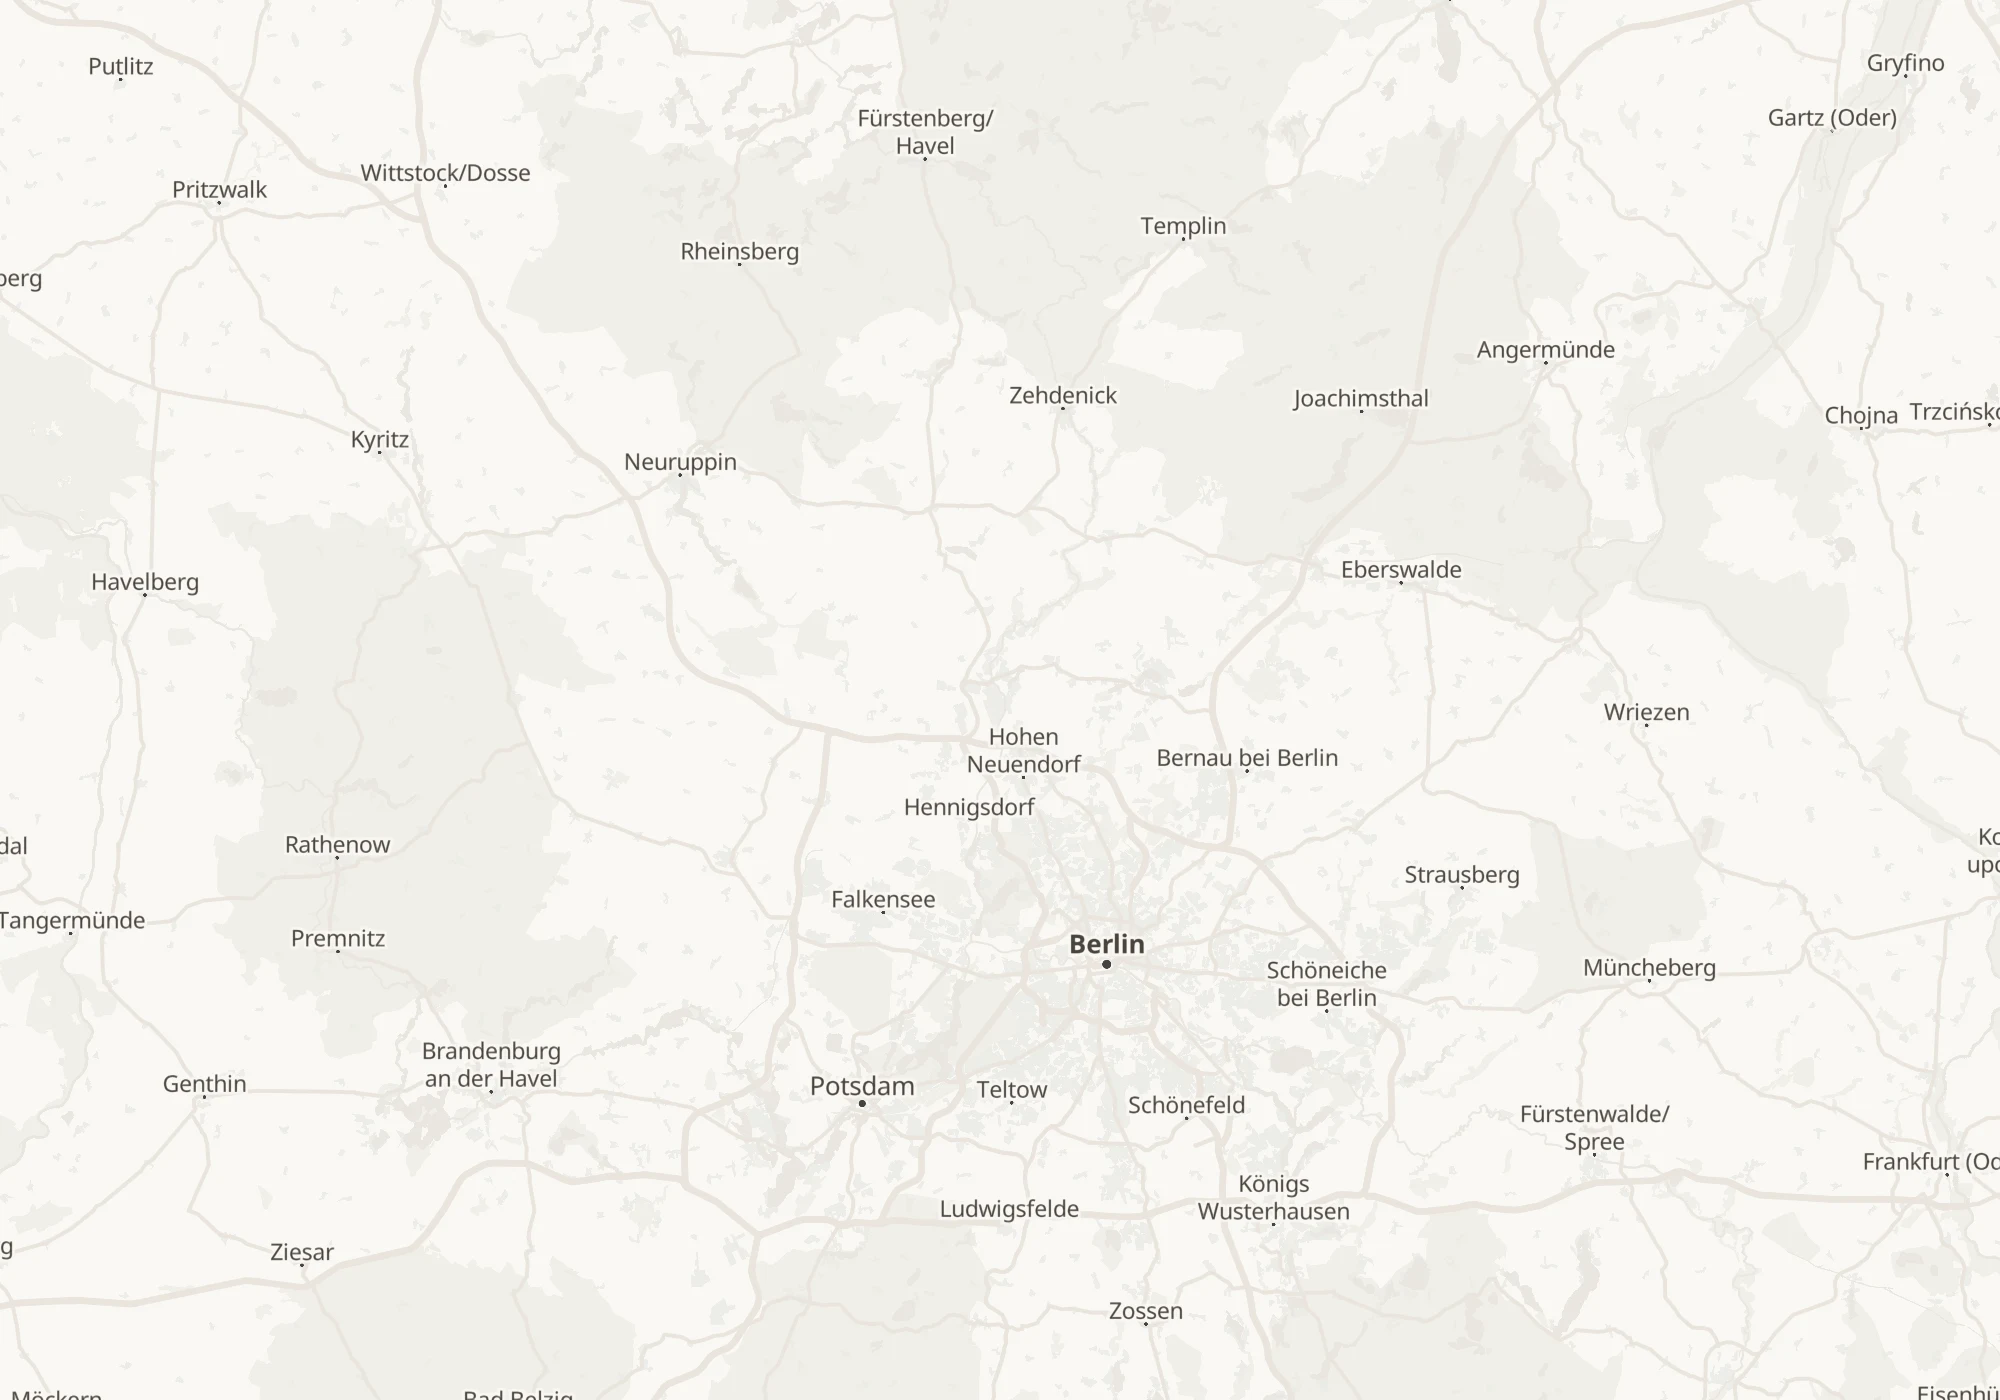
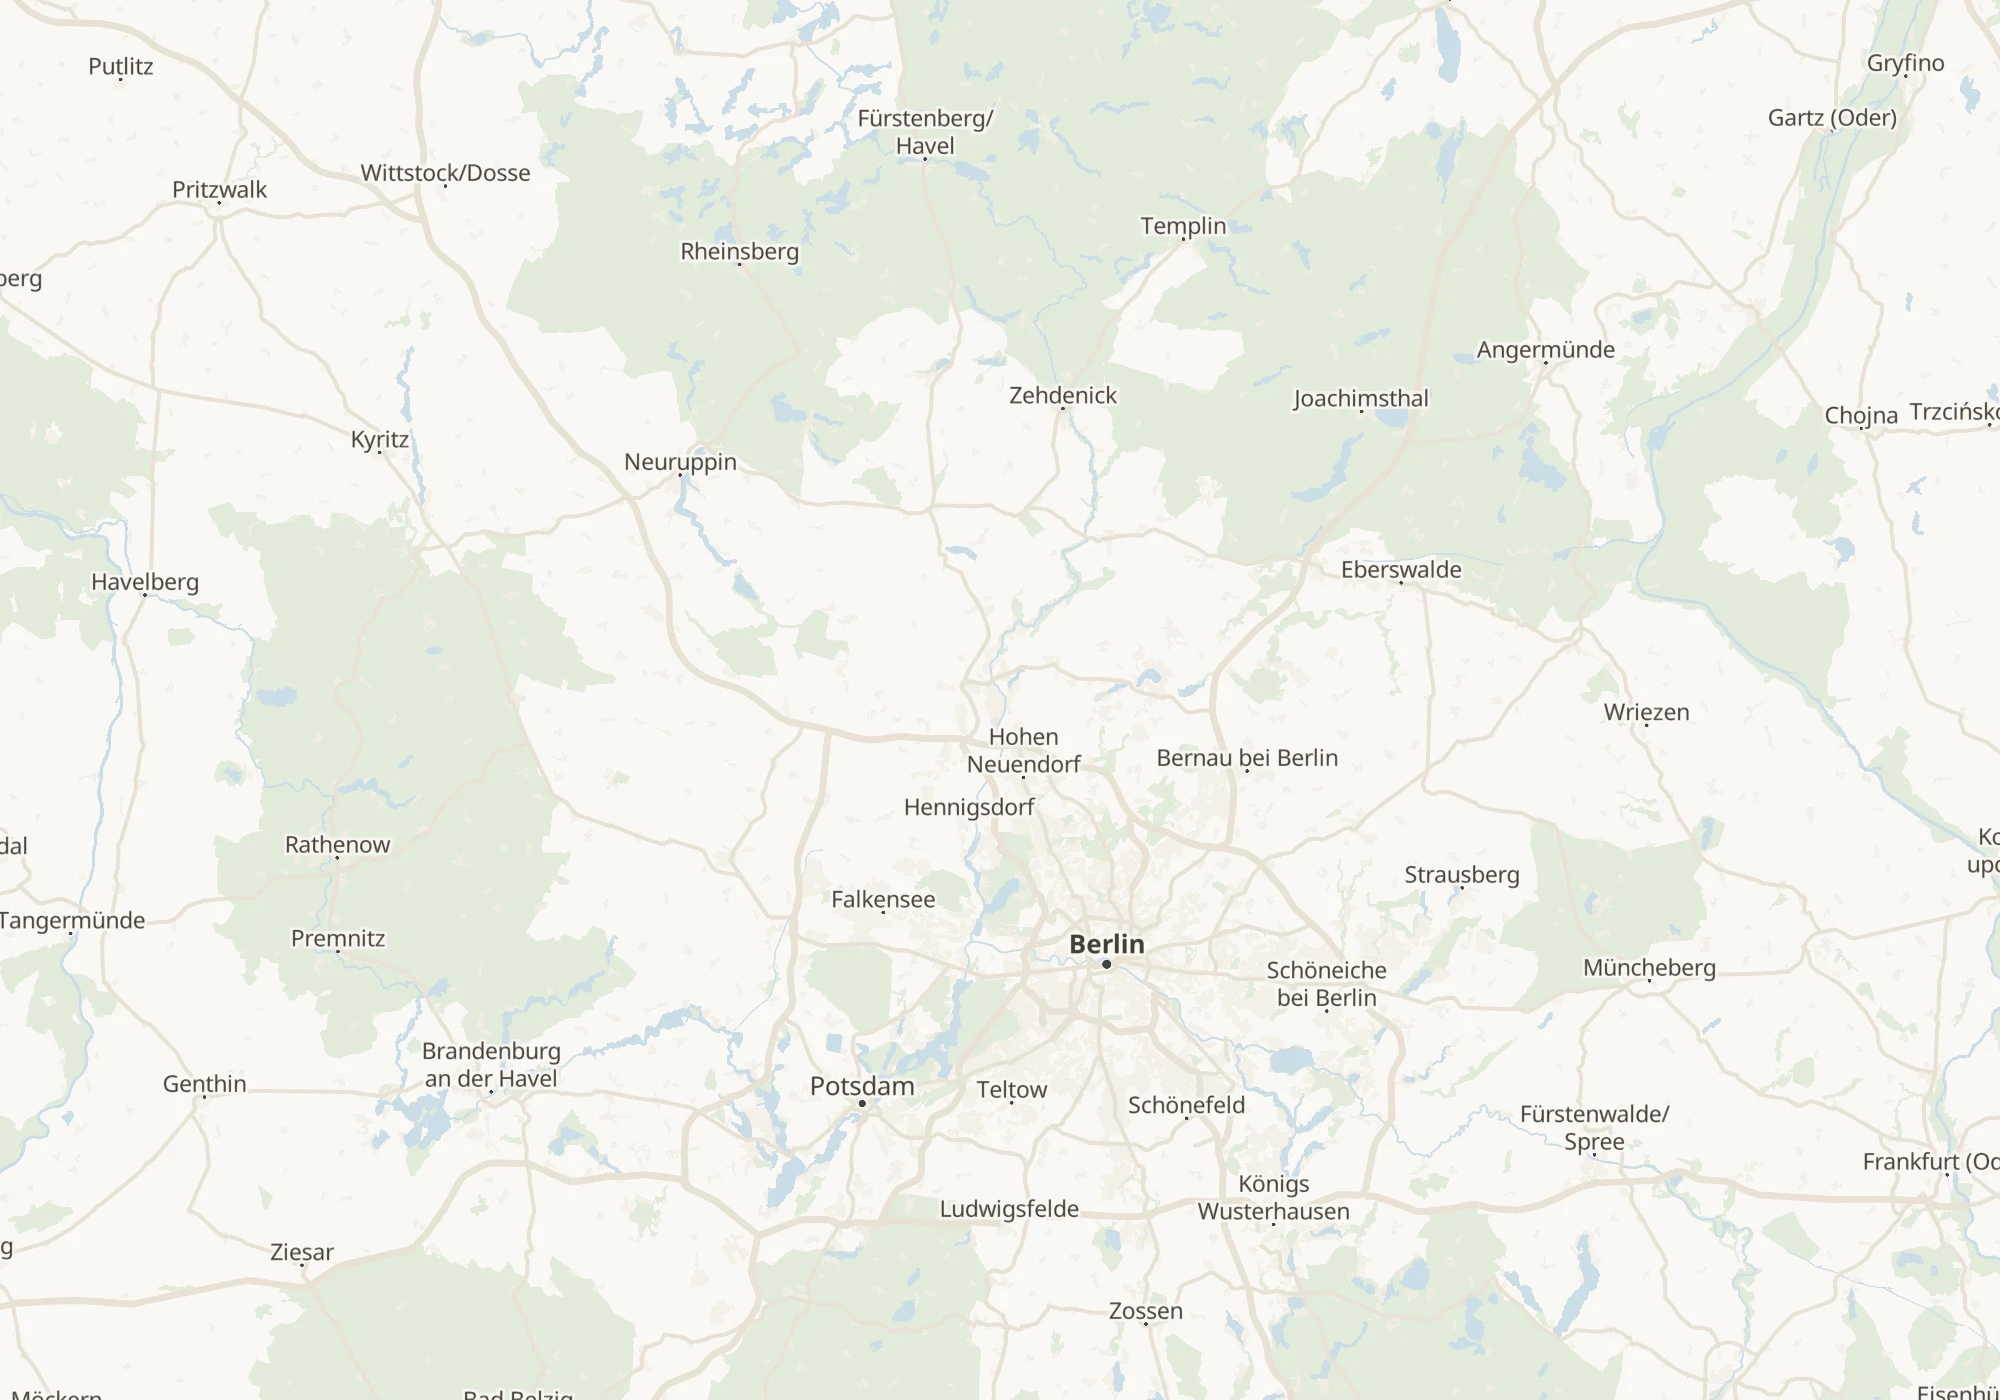
feat(sections): Verlegegebiet als echten Umriss zeigen statt als Kreis
Ein perfekter Kreis sieht gerechnet aus, nicht wie ein Einsatzgebiet. Die
Flaeche ist jetzt der Umriss der Postleitzahlen, gegen die auch die Pruefung
im Formular laeuft: um jede PLZ eine Voronoi-Zelle, davon die Zellen im
Radius vereinigt.

Damit koennen Karte und Pruefung nicht mehr auseinanderlaufen - was die
Flaeche zeigt, sagt auch die Eingabe. Beim Kreis war das nicht so: er war
Luftlinie, die Pruefung PLZ-Mittelpunkt.

Grosse Zellen in duenn besiedelten Ecken erzeugen Nadeln. Einmal um 5,5 km
schrumpfen und wieder aufblasen schneidet sie ab und rundet die Ecken, ohne
die Form zu verschieben.

Der Pfad liegt als Snippet vor, je Stufe des Reglers einer, und wird als SVG
ueber das Bild gelegt - scharf bei jeder Breite, in Markenfarbe, ohne dass
die Karte fuer eine andere Stufe neu gebaut werden muss. Zwei SVG, weil die
beiden Karten verschiedene Massstaebe haben und sich eine viewBox nicht per
CSS umschalten laesst. Der Regler steht deshalb jetzt auf 30/40/50/60 km:
nur fuer diese Stufen sind Pfade hinterlegt.

Dazu Farbe in der Basiskarte: Seen und Havel blau, Wald und Schorfheide
gruen, Berlin als warme Siedlungsflaeche. Alles entsaettigt, damit die
Markenflaeche die kraeftigste Farbe im Bild bleibt.

scripts/build-verlegegebiet-orte.py legt die Punkte unter .cache ab,
scripts/build-verlegegebiet-karte.mjs zeichnet daraus den Umriss - erst
Python, dann Node.

diff --git a/scripts/build-verlegegebiet-orte.py b/scripts/build-verlegegebiet-orte.py
@@ -2,8 +2,13 @@
 """PLZ- und Ortstabelle fuer die Sektion "TP Verlegegebiet" erzeugen.
 
 Damit prueft die Sektion offline, ob ein Wohnort im Verlegegebiet liegt -
-ohne Geocoding-Dienst, ohne Schluessel, ohne Kosten. Die Kartenbilder baut
-das Schwesterskript scripts/build-verlegegebiet-karte.mjs.
+ohne Geocoding-Dienst, ohne Schluessel, ohne Kosten.
+
+Nebenbei entsteht .cache/verlegegebiet-punkte.json mit den Koordinaten. Daraus
+zeichnet scripts/build-verlegegebiet-karte.mjs den Umriss des Verlegegebiets.
+Beide lesen damit dieselbe Quelle - die Flaeche auf der Karte und die Antwort
+der Pruefung koennen so gar nicht auseinanderlaufen. Dieses Skript zuerst
+laufen lassen.
 
 Aufruf:
     python3 scripts/build-verlegegebiet-orte.py
@@ -32,9 +37,13 @@ UA = "TeppichParadies-Theme/1.0 (kontakt@teppich-paradies.net)"
 # --- PLZ-Tabelle ----------------------------------------------------------
 GEONAMES = "https://download.geonames.org/export/zip/DE.zip"
 MAX_KM = 90          # Reserve ueber dem im Editor einstellbaren Radius (max. 60)
+# Fuer den Umriss braucht die Karte auch Punkte ausserhalb: sie begrenzen die
+# aeusseren Zellen, sonst franst die Flaeche am Rand aus.
+PUNKTE_KM = 130
 
 ROOT = os.path.dirname(os.path.dirname(os.path.abspath(__file__)))
 ASSETS = os.path.join(ROOT, "assets")
+CACHE = os.path.join(ROOT, ".cache")
 
 
 def haversine(lat1, lon1, lat2, lon2):
@@ -57,6 +66,7 @@ def plz_tabelle_bauen():
     with zipfile.ZipFile(io.BytesIO(daten)) as z:
         zeilen = z.read("DE.txt").decode("utf-8").splitlines()
 
+    punkte = {}
     plz = {}
     # Grossstaedte reichen ueber den Rand, deshalb je Ort die naechste und die
     # entfernteste PLZ - sonst meldet "Berlin" pauschal "im Gebiet".
@@ -69,9 +79,11 @@ def plz_tabelle_bauen():
             km = haversine(LAT, LON, float(c[9]), float(c[10]))
         except ValueError:
             continue
+        code, ort = c[1], c[2]
+        if km <= PUNKTE_KM and (code not in punkte or km < punkte[code][2]):
+            punkte[code] = [round(float(c[10]), 5), round(float(c[9]), 5), round(km, 1)]
         if km > MAX_KM:
             continue
-        code, ort = c[1], c[2]
         if code not in plz or km < plz[code]:
             plz[code] = km
         n = normalisieren(ort)
@@ -91,6 +103,13 @@ def plz_tabelle_bauen():
         }, f, ensure_ascii=False, separators=(",", ":"))
     print(f"{os.path.basename(ziel)}  {len(plz)} PLZ, {len(orte)} Orte, "
           f"{os.path.getsize(ziel) / 1024:.0f} KB")
+
+    os.makedirs(CACHE, exist_ok=True)
+    punkteziel = os.path.join(CACHE, "verlegegebiet-punkte.json")
+    with open(punkteziel, "w", encoding="utf-8") as f:
+        json.dump(punkte, f, separators=(",", ":"))
+    print(f"{os.path.join('.cache', 'verlegegebiet-punkte.json')}  {len(punkte)} Punkte bis "
+          f"{PUNKTE_KM} km (Vorlage fuer den Umriss, nicht im Repository)")
 
 
 if __name__ == "__main__":
